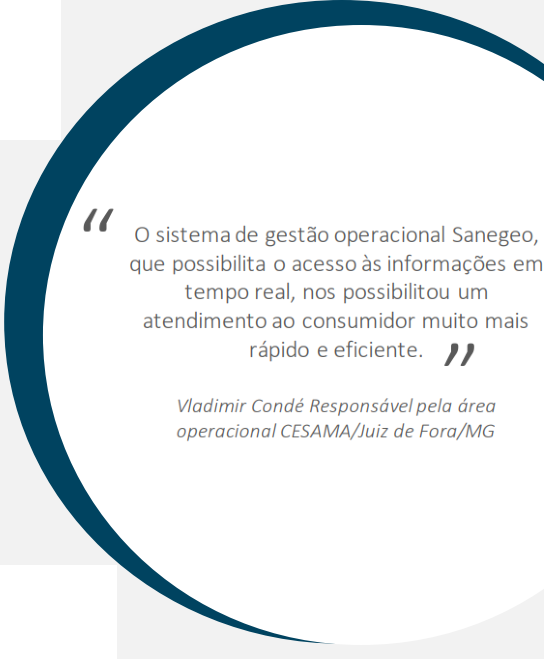
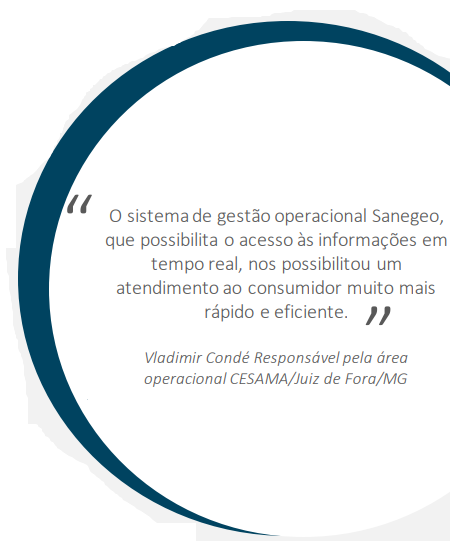
ajustado circlo

diff --git a/main.css b/main.css
@@ -486,6 +486,10 @@ color:rgb(60,106,179);
 
 .circulo1 {
     margin: auto;
+
+}
+
+.circulo1 img {
 }
 
 .circulo2 {
@@ -501,7 +505,10 @@ color:rgb(60,106,179);
     display: flex;
     justify-content: center;
     align-items: center; 
-    margin-top: -5%;
+    margin-top: -12%;
+}
+
+.circulo3 img {
 }
 /* Página de Contato */
 
@@ -553,7 +560,7 @@ color:rgb(60,106,179);
     margin: auto;
     text-decoration: none;
     text-align: center;
-    padding-top: 31%;
+    padding-top: 28%;
 }
 
 .zapicone {

diff --git a/index.html b/index.html
@@ -347,9 +347,12 @@
             <input type="submit" value="Enviar Mensagem">
 
         </form>
-        <a class="zapzap col-2" href="https://wa.me/5548991690167">
-            <img class="zapicone" src="assets/zapicone.png">
-        </a>
+        <div class="zapzap col-2">
+            <a  href="https://wa.me/5548991690167">
+                <img class="zapicone" src="assets/zapicone.png">
+            </a>
+        </div>
+        
     </div>
 </body>
 
